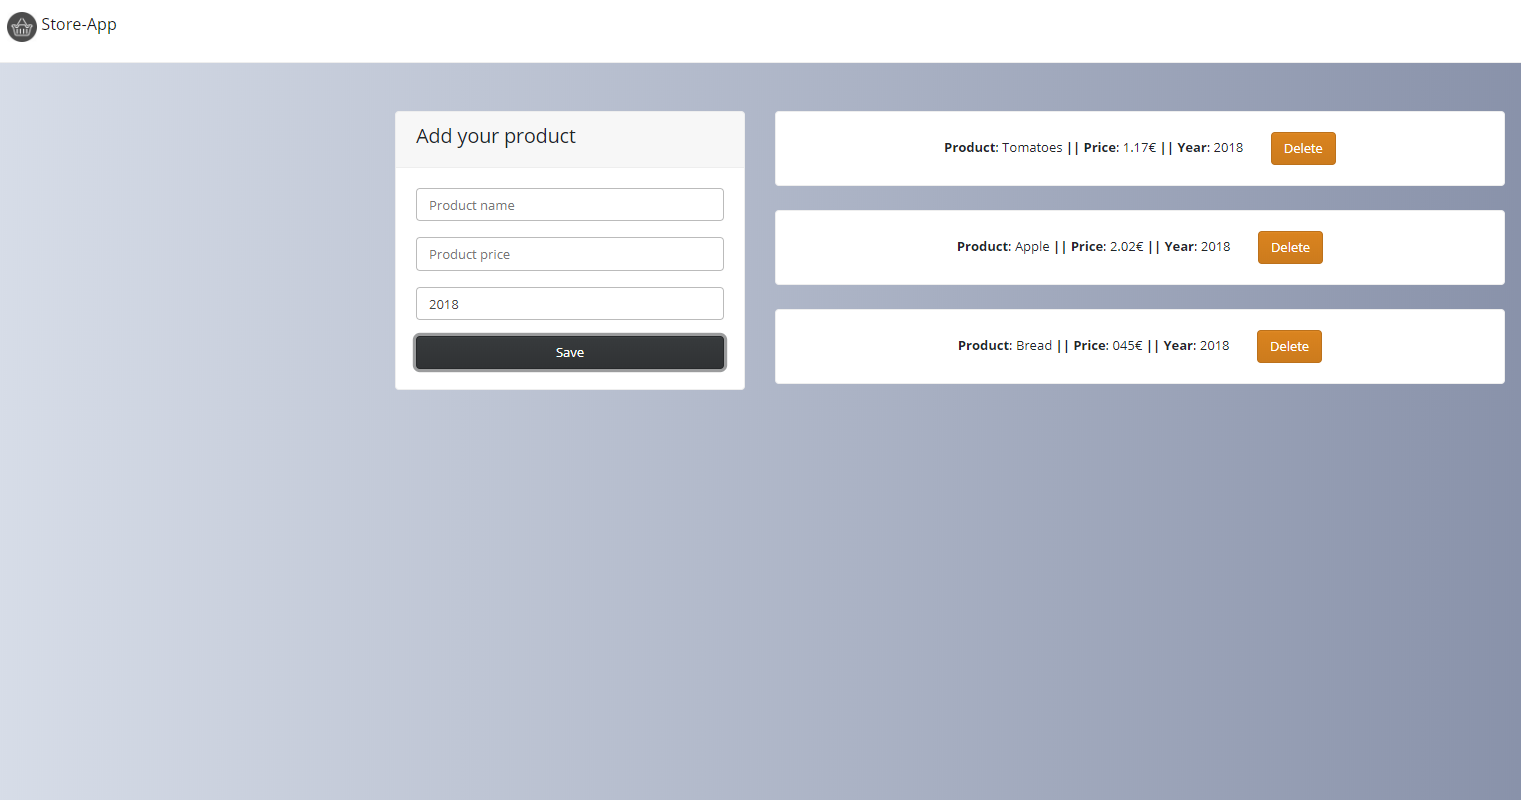
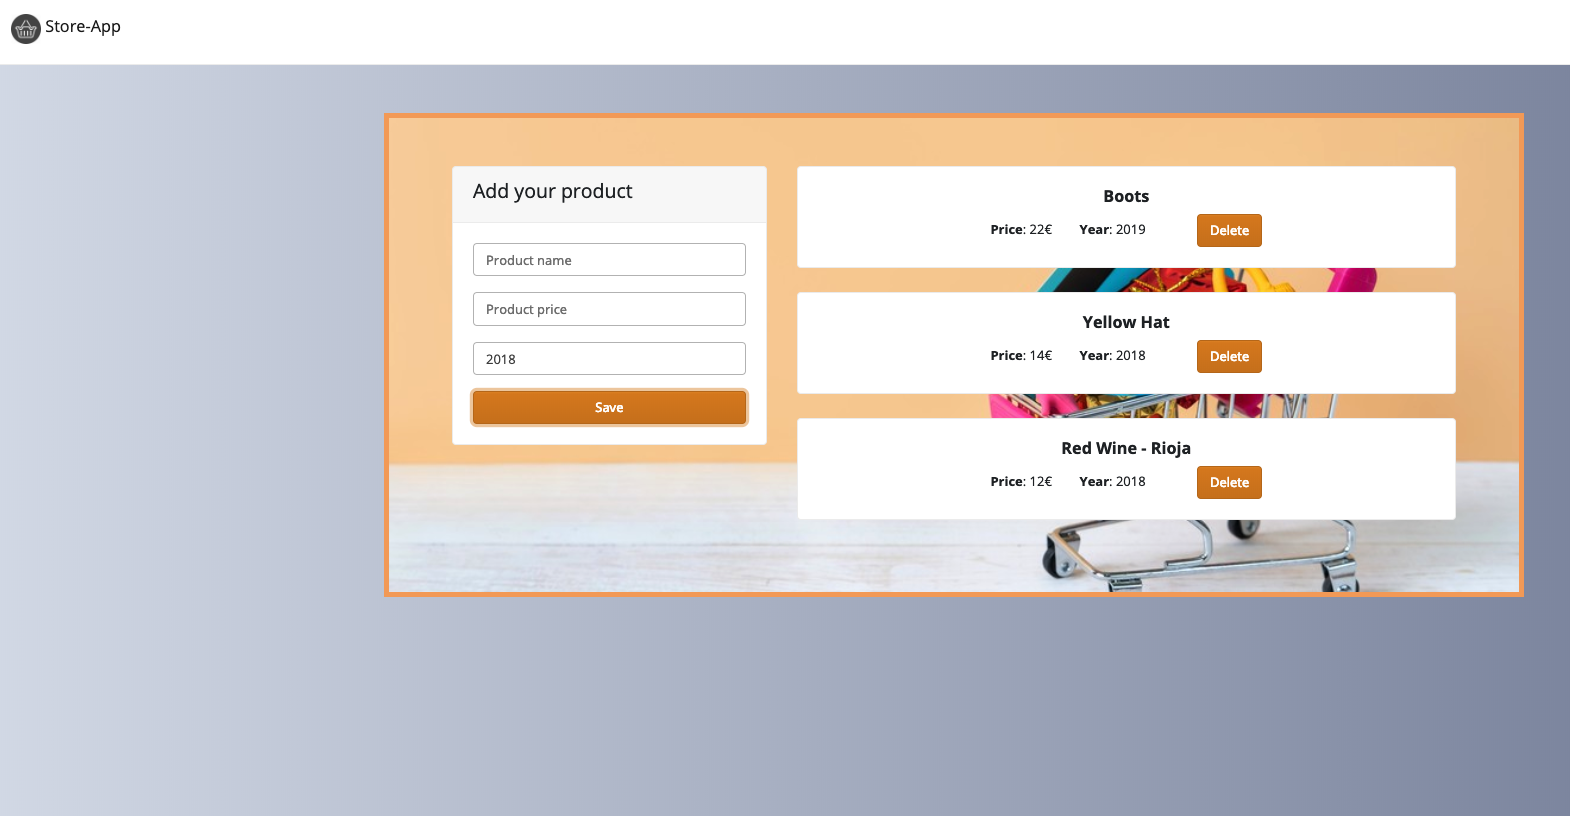
background and otimizacion imagens

diff --git a/app.js b/app.js
@@ -1,7 +1,6 @@
 //Product Constructor
 class Product {
-
-  constructor(name, price, year){
+  constructor(name, price, year) {
     this.name = name;
     this.price = price;
     this.year = year;
@@ -9,59 +8,59 @@ class Product {
 }
 
 //UI Constructor
-class UI{
-
+class UI {
   //Product template
-  addProduct(product){
-    const productList = document.getElementById('product-list');
-    const element = document.createElement('div');
-    element.innerHTML=`
+  addProduct(product) {
+    const productList = document.getElementById("product-list");
+    const element = document.createElement("div");
+    element.innerHTML = `
       <div class="card text-center mb-4">
         <div class="card-body">
-          <strong>Product</strong>: ${product.name} 
-          <strong> || Price</strong>: ${product.price}€ 
-          <strong> || Year</strong>: ${product.year} 
-          <a href="#" class="btn btn-danger ml-4" name="delete">Delete</a>
+          <h5><strong>${product.name}</strong></h5>
+          <strong >Price</strong>: ${product.price}€ 
+          <strong class="ml-4">Year</strong>: ${product.year} 
+          <a href="#" class="btn btn-danger ml-5" name="delete">Delete</a>
         </div>
       </div>
     `;
     productList.appendChild(element);
   }
 
-  resetForm(){
-    document.getElementById('product-form').reset();
+  resetForm() {
+    document.getElementById("product-form").reset();
   }
 
-  deleteProduct(element){
-    if(element.name === 'delete'){
+  deleteProduct(element) {
+    if (element.name === "delete") {
       element.parentElement.parentElement.remove();
+      return true;
     }
   }
 
-  showMessage(message, cssClass){
-    const msg = document.createElement('div');
-    msg.className =`alert alert-${cssClass} mt-2 text-center`;
+  showMessage(message, cssClass) {
+    const msg = document.createElement("div");
+    msg.className = `alert alert-${cssClass} mt-2 text-center`;
     msg.appendChild(document.createTextNode(message));
 
     //Show in the DOM
-    const container = document.querySelector('.container');
-    const app = document.querySelector('#app');
-    
+    const container = document.querySelector(".container");
+    const app = document.querySelector("#app");
+
     //Insert message in the UI
     container.insertBefore(msg, app);
-    
+
     //Remove after 2 seconds
-    setTimeout(function () {
-      document.querySelector('.alert').remove();
-    }, 2000);
+    setTimeout(function() {
+      document.querySelector(".alert").remove();
+    }, 1000);
   }
 }
 
 //DOM Events
-document.getElementById('product-form').addEventListener('submit', (e) =>{
-  const name = document.getElementById('product-name').value,
-        price = document.getElementById('product-price').value,
-        year = document.getElementById('product-year').value;
+document.getElementById("product-form").addEventListener("submit", e => {
+  const name = document.getElementById("product-name").value,
+    price = document.getElementById("product-price").value,
+    year = document.getElementById("product-year").value;
 
   //Create a new Object Product
   const product = new Product(name, price, year);
@@ -72,17 +71,17 @@ document.getElementById('product-form').addEventListener('submit', (e) =>{
   //Save product
   ui.addProduct(product);
   ui.resetForm();
-  ui.showMessage('Product added successfully', 'success');
+  ui.showMessage("Product added successfully", "success");
 
   e.preventDefault();
 });
 
 //Delete product
-document.getElementById('product-list').addEventListener('click', (e) =>{
+document.getElementById("product-list").addEventListener("click", e => {
   const ui = new UI();
   ui.deleteProduct(e.target);
-  ui.showMessage('Product removed successfully', 'danger');
-  
+  if(ui.deleteProduct(e.target)) {
+    ui.showMessage("Product removed successfully", "danger");
+  }
   e.preventDefault();
 });
-

diff --git a/index.html b/index.html
@@ -23,17 +23,17 @@
   
   <!-- Navbar -->
   <nav class="navbar navbar-light bg-light">
-    <a class="navbar-brand" href="#">
+    <a class="navbar-brand" href="/index.html">
       <img src="./img/shopping_basket.png" width="30" height="30" class="d-inline-block align-top"
         alt="logo">
-      Store-App
+      Shopping-App
     </a>
   </nav>
 
   <!-- Hero -->
-  <div class="container">
+  <div class="container mt-5">
     <!-- Form -->
-    <div class="row pt-5" id="app">
+    <div class="row shopping p-5 " id="app">
       <div class="col-md-4">
         <div class="card">
           <div class="card-header">
@@ -49,12 +49,12 @@
             <div class="form-group">
               <input type="number" id="product-year" min="1900" step="1" value="2018" class="form-control">
             </div>
-            <input type="submit" value="Save" class="btn btn-dark btn-block">
+            <input type="submit" value="Save" class="btn btn-danger btn-block">
           </form>
         </div>
       </div>
       <!-- Outputs -->
-      <div class="col-md-8" id="product-list"></div>
+      <div class="col-md-8 shopping__products" id="product-list"></div>
     </div>
   </div>
 

diff --git a/master.css b/master.css
@@ -1,6 +1,19 @@
 body{
   margin: 0;
-  background: #757F9A;  /* fallback for old browsers */
-  background: -webkit-linear-gradient(to right, #D7DDE8, #757F9A);  /* Chrome 10-25, Safari 5.1-6 */
-  background: linear-gradient(to right, #D7DDE8, #757F9A); /* W3C, IE 10+/ Edge, Firefox 16+, Chrome 26+, Opera 12+, Safari 7+ */  
+  background: #757F9A;  
+  background: -webkit-linear-gradient(to right, #D7DDE8, #757F9A);  
+  background: linear-gradient(to right, #D7DDE8, #757F9A); 
+}
+
+.shopping {
+  background-image: url('./img/background-shopping.jpg');
+  background-position: center;
+  background-repeat: no-repeat;
+  background-size: cover;
+  border: 5px solid sandybrown;
+}
+
+.shopping__products {
+  max-height: 500px;
+  overflow: auto;
 }

diff --git a/README.md b/README.md
@@ -1,30 +1,10 @@
 # Shopping App
+Dynamic web.
+HTML injecting into the DOM and the logic app just with vanilla JS
 
-## Javascript OOP
-Store app
 
 ![Screenshot](./docs/capture.png)
-## Check it out > https://efrensanchez.github.io/Basic-OOP/
-
-
-## Requirements
-- Knowledge in HTML and CSS 
-- Bootstrap 4
-- Basic knowledge in JavaScript
+####  🕹 Demo > https://efrensanchez.github.io/Shopping-app/
 
 
 
-# Get started
-
-## Clone the repository to your machine
-
-You can use git or download it directly from github
-
-![](https://imgur.com/bpHE9K6.png)
-
-Just clone it and run index.html in your browser. Easy
-
-
-## License
-
-MIT
